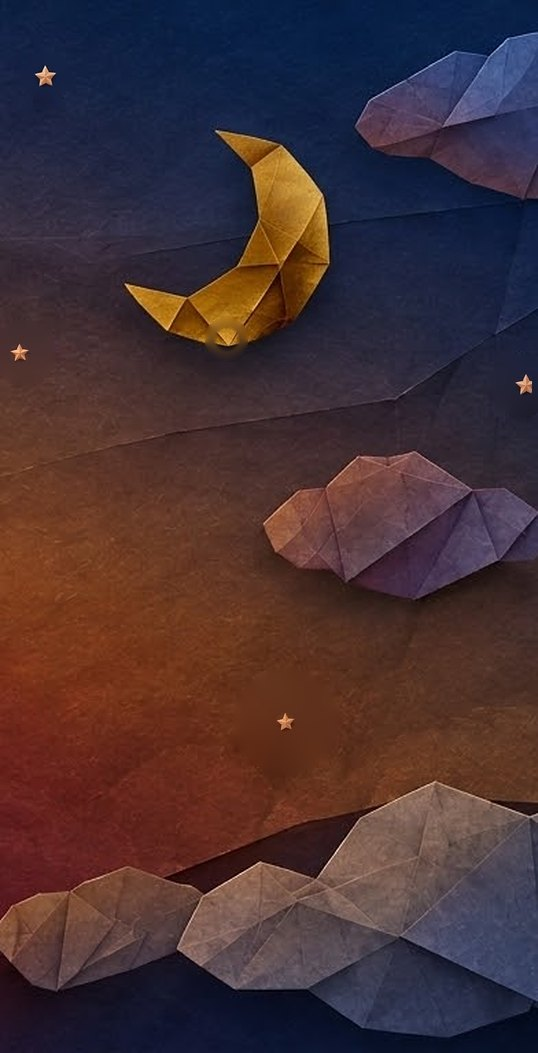
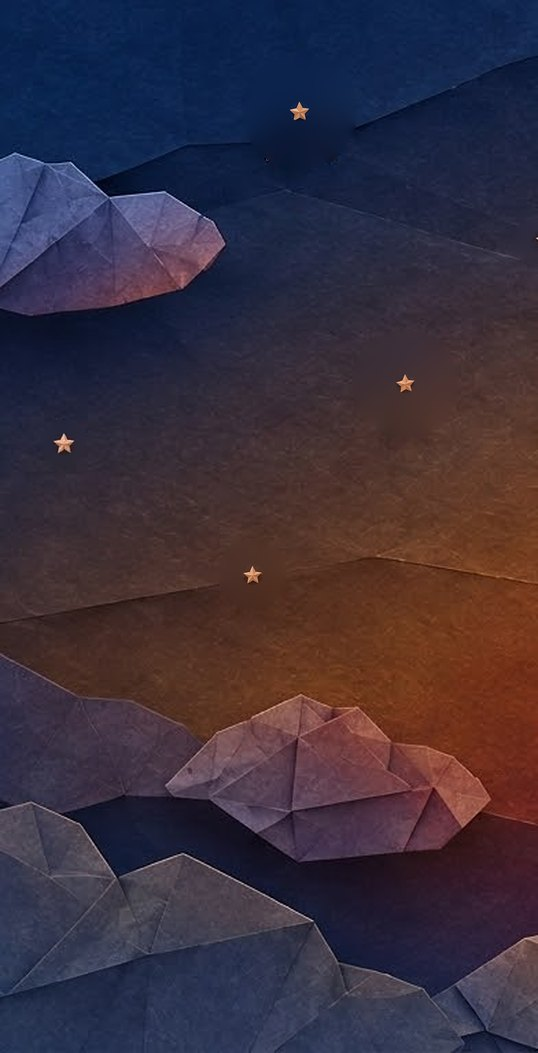
朝・昼・夕方の空を新しい折り紙の絵に差し替え
3 枚は雲の並びが共通の同じ景色。太陽が点数・鳥に重ならないよう切り出しを決めた (朝 x=690・昼 x=760・夕方 x=0)。
夕方から夜の絵は、夕方と同じ x=0 で切り出し直し、雲の並びをそろえた。
tests: npm test 17 件, test:ui 153 件

Claude-Session: https://claude.ai/code/session_01VNifuaMGz9kWVnVmfma8o2

diff --git a/CLAUDE.md b/CLAUDE.md
@@ -25,12 +25,12 @@
   両端を斜めに切った `clip-path`) とベストの数字 (本物のテキスト。絵の中の数字は、元の絵から**消してある**) を重ねる。待っている鳥はロゴと「タップでスタート」のあいだに見える。
   **アイテムと残りハートも折り紙の絵** (40pt の正方形でふわふわ上下。当たりは `ITEM_R` 14pt のまま。効果の残り時間の印も同じ絵)。
   もらった絵のうち、青い折り紙・茶色の亀・白い帯 (ハート入り) は使っていない。
-  **空は全ステージ紙の絵 8 枚** (`assets/sky-morning.jpg` = 日の出と海 / `sky-noon.jpg` = 昼の太陽と山 / `sky-sunset.jpg` = 夕焼けと雲 / `sky-dusk.jpg` = 夕方から夜へ (三日月・星・同じ雲) /
+  **空は全ステージ紙の絵 8 枚** (`assets/sky-morning.jpg` = 朝の淡い太陽と雲 / `sky-noon.jpg` = 昼の青い空と太陽 / `sky-sunset.jpg` = 夕焼けの大きな太陽と雲 / `sky-dusk.jpg` = 夕方から夜へ (三日月・星・同じ雲) /
   `sky-night.jpg` = 満月と雲 / `sky-starry.jpg` = 三日月・星・雲 / `sky-aurora.jpg` = オーロラと氷山 / `sky-space.jpg` = 宇宙 (惑星・宇宙飛行士・銀河))。
   宇宙以外は、もらった横長の絵から、空と同じ縦横比 430:842 で切り出し、538x1053 に。**宇宙だけは横長のまま** (1930x1053。高さ 842pt・幅 1544pt で置き、CSS の `skyPan` で 430pt の窓の中を 180 秒かけて行って戻る。
   `transform` だけを動かすので軽い。出ているあいだだけ動かし (`animation-play-state`)、出ていないときは止める)。床は含めない。
-  **切り出す位置は、点数 (画面の中央上) と鳥 (左 26%) に太陽や月が重ならないように決める**: 昼は太陽が中央だと点数 (タン色) が黄色に溶けるので、太陽を右へ寄せた (x=300)。
-  夕方と夕方から夜は**同じ位置で切り出す** (雲の並びがそろった組なので、ゆっくり重ねると夕焼けが暮れていくように見える)。
+  **切り出す位置は、点数 (画面の中央上) と鳥 (左 26%) に太陽や月が重ならないように決める**: 朝・昼・夕方の 3 枚は同じ景色 (雲の並びが共通。元は 1375x768) で、切り出しは朝 x=690・昼 x=760 (太陽を右へ寄せ、昼は半分はみ出す。中央だと点数 (タン色) が黄色に溶ける)・夕方 x=0 (大きな太陽が点数の右下に収まる)。
+  夕方と夕方から夜は**同じ位置 (x=0) で切り出す** (雲の並びがそろった組なので、ゆっくり重ねると夕焼けが暮れていくように見える)。
   `#skyMorning` / `#skyNoon` / `#skySunset` / `#skyDusk` / `#skyNight` / `#skyStarry` / `#skyAurora` / `#skySpace` (`.sky-art`) を `#sky` の上に**下から順に重ね**、濃さは `palette().skyArt` (8 つの数):
   朝は最初から、昼 **10 点**・夕方 **20 点**・夜 **30 点**・星空 **40 点**・オーロラ **50 点**・宇宙 **60 点** (= ステージの頭。色がそのステージの色になる点) でぱっと、夕方から夜は **20→30 点でなめらかに** (どれも CSS の 0.6 秒の重ね合わせ)。
   絵は 1 枚目から全面を覆うので、グラデーション (灰紫に濁る途中も含め) が見えるのは**絵が読めないときだけ**。
